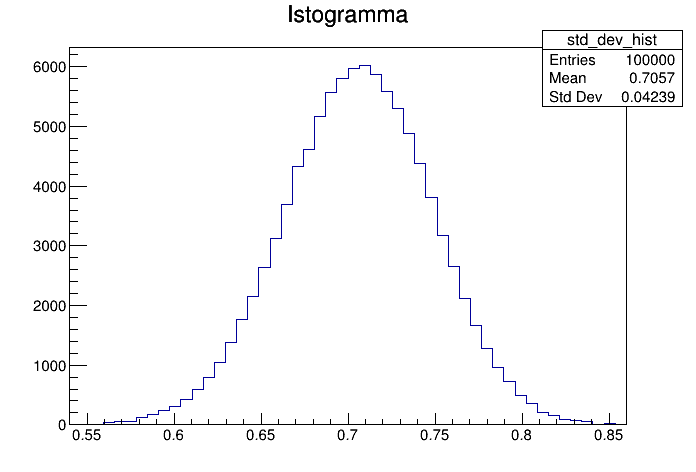
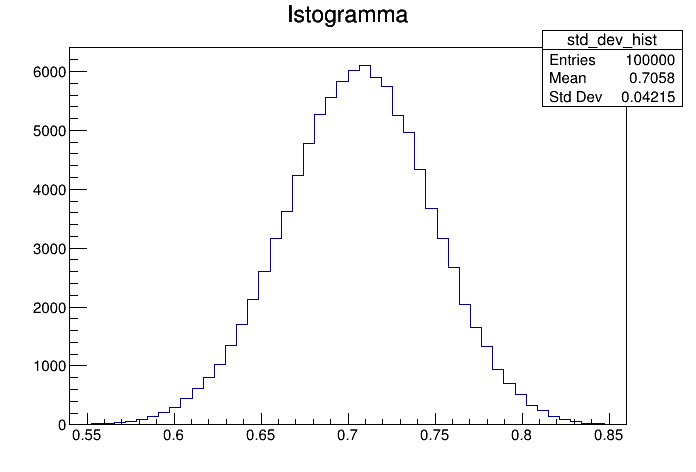
All ok

diff --git a/esame_17012022/main.cpp b/esame_17012022/main.cpp
@@ -15,11 +15,13 @@ int main () {
 
     //Parte 1 - Generazione punti secondo pdf triangolare
     int n_events = 1000;
+    double point_max {-100.} , point_min {100.};
     vector<double> points;
 
     //Generiamo <n_events> punti distribuiti secondo una pdf triangolare
     for(int i = 0 ; i < n_events ; ++i) {
-        points.push_back(triangle_tac(0. , 3.));
+        double tmp_point {triangle_tac(0. , 3.)};
+        points.push_back(tmp_point);
     }
 
     //Riempiamo L'istogramma con i punti generati
@@ -38,6 +40,8 @@ int main () {
 
     //Parte 2 - Toy experiments
     int n_toy {100000} , toy_events {100};
+    double mean_max{-100.} , mean_min{100.};
+    double std_dev_max{-100.} , std_dev_min{100.};
     vector<double> toy_mean , toy_std_dev;
 
     points.clear();    
@@ -45,30 +49,38 @@ int main () {
     //Eseguiamo un numero <n_toy> di toy experiments,
     //conservando i valori di media e varianza associati
     //ad ogni campione
+    
     for (int i {0} ; i < n_toy ; ++i) {
         for(int k {0} ; k < toy_events ; ++k) {
             points.push_back(triangle_tac(0. , 3.));
         }
-        toy_mean.push_back(mean(points));
-        toy_std_dev.push_back(std_dev_bessel(points , toy_mean.back()));
+        
+        double tmp_mean {mean(points)};
+        double tmp_std_dev {std_dev_bessel(points , tmp_mean)};
+        toy_mean.push_back(tmp_mean);
+        toy_std_dev.push_back(tmp_std_dev);
+        if (tmp_mean > mean_max)
+            mean_max = tmp_mean;
+        if (tmp_mean < mean_min)
+            mean_min = tmp_mean;
+        if (tmp_std_dev > std_dev_max)
+            mean_max = tmp_std_dev;
+        if (tmp_std_dev < std_dev_min)
+            std_dev_min = tmp_std_dev;
         points.clear();
     }
     
     //Creiamo e stampiamo gli istogrammi relativi ai risultati dei toy experiments
-    TH1F mean_hist ("mean_hist" , "Istogramma" , 50 , 1.8 , 2.4);
-    for (vector<double>::iterator it = toy_mean.begin() ; it != toy_mean.end() ; ++it) {
-        mean_hist.Fill(*it);
+    TH1F mean_hist ("mean_hist" , "Istogramma" , 50 , mean_min , mean_max);
+    TH1F std_dev_hist ("std_dev_hist" , "Istogramma" , 50 , std_dev_min , std_dev_max);
+    for (int i = 0 ; i < n_toy ; ++i) {
+        mean_hist.Fill(toy_mean[i]);
+        std_dev_hist.Fill(toy_std_dev[i]);
     }
 
     TCanvas c2;
     mean_hist.Draw();
     c2.Print("mean.png" , "png"); 
-
-
-    TH1F std_dev_hist ("std_dev_hist" , "Istogramma" , 50 , 0.54 , 0.86);
-    for (vector<double>::iterator it = toy_std_dev.begin() ; it != toy_std_dev.end() ; ++it) {
-        std_dev_hist.Fill(*it);
-    }
 
     TCanvas c3;
     std_dev_hist.Draw();
